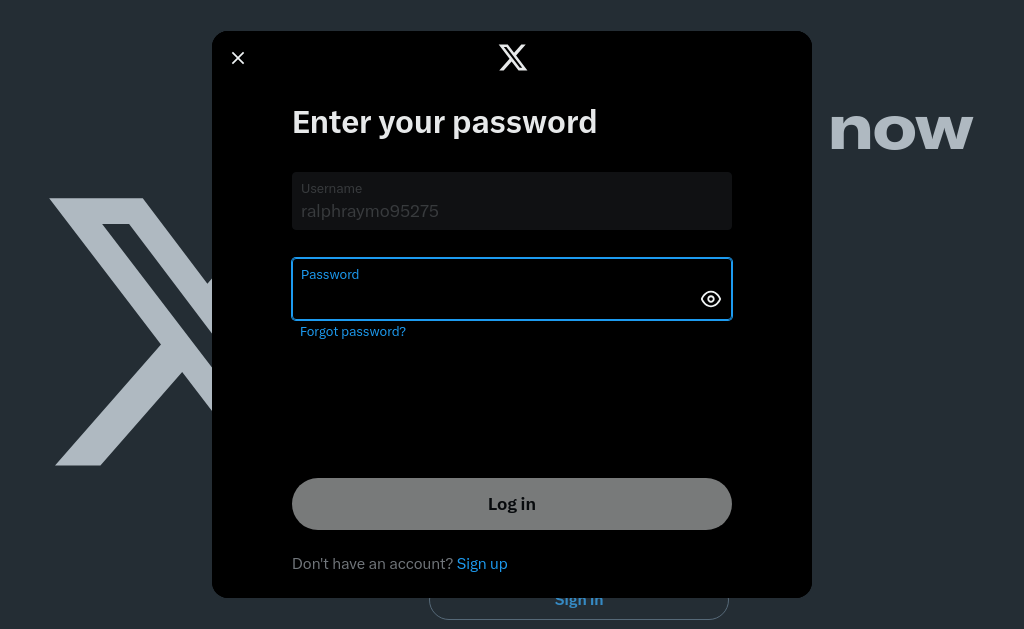
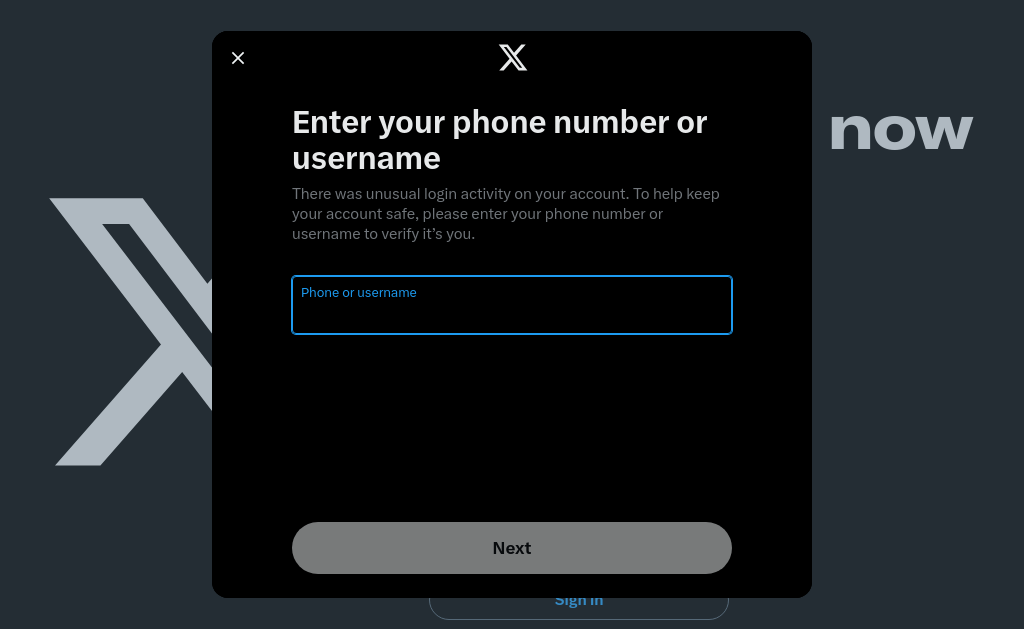
up

Changed region(s): [[0.2812, 0.2417, 0.7188, 0.5437], [0.2812, 0.7552, 0.7188, 0.9364], [0.4375, 0.1812, 0.6875, 0.2114]]

diff --git a/webdriver_setup.py b/webdriver_setup.py
@@ -11,6 +11,7 @@ from selenium.webdriver.common.by import By
 from selenium.webdriver.support import expected_conditions as EC
 import requests
 import configparser
+os.environ["DISPLAY"] = ":0" 
 def get_public_ip():
     try:
         # 使用 ipify 的 API 获取外网 IP
@@ -23,15 +24,6 @@ def get_public_ip():
             return "无法获取外网IP地址"
     except Exception as e:
         return f"发生错误: {e}"
-# 创建 ConfigParser 对象
-config = configparser.ConfigParser()
-# 读取配置文件
-config.read('config.ini')
-# 获取配置项
-configname = get_public_ip()
-user = config.get(configname, 'user')
-password = config.get(configname, 'pass')
-two_fa = config.get(configname, '2fa')
 
 def custom_screenshot(driver, file, width, height):
     os.makedirs("png", exist_ok=True)  # Ensure the 'png' directory exists
@@ -115,6 +107,16 @@ def get_verification_code(google2fa):
 
 
 def login(driver):
+    # 创建 ConfigParser 对象
+    config = configparser.ConfigParser()
+    # 读取配置文件
+    config.read('config.ini')
+    # 获取配置项
+    configname = get_public_ip()
+    xuser = config.get(configname, 'user')
+    xpassword = config.get(configname, 'pass')
+    two_fa = config.get(configname, '2fa')
+    print(xuser, xpassword, two_fa)
     driver.get("https://x.com/home?lang=zh") #   https://cn.tradingview.com/chart/R5c7qOGM/  https://cn.tradingview.com/chart/azMSont9/
     # 等待页面完全加载
     time.sleep(5)
@@ -133,27 +135,39 @@ def login(driver):
         print(element.text)
         if element.text == 'Sign in':
             element.click()
+            print('点击登录')
             time.sleep(5)
             custom_screenshot(driver, "Sign in.png", 1024, 768)
             username = driver.find_element(By.CSS_SELECTOR, '#layers > div:nth-child(2) > div > div > div > div > div > div.css-175oi2r.r-1ny4l3l.r-18u37iz.r-1pi2tsx.r-1777fci.r-1xcajam.r-ipm5af.r-g6jmlv.r-1awozwy > div.css-175oi2r.r-1wbh5a2.r-htvplk.r-1udh08x.r-1867qdf.r-kwpbio.r-rsyp9y.r-1pjcn9w.r-1279nm1 > div > div > div.css-175oi2r.r-1ny4l3l.r-6koalj.r-16y2uox.r-kemksi.r-1wbh5a2 > div.css-175oi2r.r-16y2uox.r-1wbh5a2.r-f8sm7e.r-13qz1uu.r-1ye8kvj > div > div > div > div.css-175oi2r.r-1mmae3n.r-1e084wi.r-13qz1uu > label > div > div.css-175oi2r.r-18u37iz.r-16y2uox.r-1wbh5a2.r-1wzrnnt.r-1udh08x.r-xd6kpl.r-is05cd.r-ttdzmv > div > input')
-            username.send_keys(user) #fuxiaoman800@gmail.com fuxiaoman1@gmail.com
+            username.send_keys(xuser) #fuxiaoman800@gmail.com fuxiaoman1@gmail.com
+            print('输入账号')
             custom_screenshot(driver, "login.png", 1024, 768)
             login_button = WebDriverWait(driver, 10).until(EC.presence_of_element_located((By.XPATH, '//*[@id="layers"]/div[2]/div/div/div/div/div/div[2]/div[2]/div/div/div[2]/div[2]/div/div/div/button[2]/div/span/span')))
             login_button.click()
+            print('点击下一步')
             custom_screenshot(driver, "login1.png", 1024, 768)
-            # time.sleep(5)
-            # user = driver.find_element(By.CSS_SELECTOR, '#layers > div:nth-child(2) > div > div > div > div > div > div.css-175oi2r.r-1ny4l3l.r-18u37iz.r-1pi2tsx.r-1777fci.r-1xcajam.r-ipm5af.r-g6jmlv.r-1awozwy > div.css-175oi2r.r-1wbh5a2.r-htvplk.r-1udh08x.r-1867qdf.r-kwpbio.r-rsyp9y.r-1pjcn9w.r-1279nm1 > div > div > div.css-175oi2r.r-1ny4l3l.r-6koalj.r-16y2uox.r-kemksi.r-1wbh5a2 > div.css-175oi2r.r-16y2uox.r-1wbh5a2.r-f8sm7e.r-13qz1uu.r-1ye8kvj > div.css-175oi2r.r-16y2uox.r-1wbh5a2.r-1dqxon3 > div > div.css-175oi2r.r-1mmae3n.r-1e084wi > label > div > div.css-175oi2r.r-18u37iz.r-16y2uox.r-1wbh5a2.r-1wzrnnt.r-1udh08x.r-xd6kpl.r-is05cd.r-ttdzmv > div > input')
-            # user.send_keys("FrasheriAr53973") #fuxiaoman800@gmail.com fuxiaoman1@gmail.com
-            # custom_screenshot(driver, "login2.png", 1024, 768)
-            # login_button = WebDriverWait(driver, 10).until(EC.presence_of_element_located((By.XPATH, '//*[@id="layers"]/div[2]/div/div/div/div/div/div[2]/div[2]/div/div/div[2]/div[2]/div[2]/div/div/div/button/div/span/span')))
-            # login_button.click()
-            # custom_screenshot(driver, "login3.png", 1024, 768)
+            try:
+                time.sleep(5)
+                user = driver.find_element(By.CSS_SELECTOR, '#layers > div:nth-child(2) > div > div > div > div > div > div.css-175oi2r.r-1ny4l3l.r-18u37iz.r-1pi2tsx.r-1777fci.r-1xcajam.r-ipm5af.r-g6jmlv.r-1awozwy > div.css-175oi2r.r-1wbh5a2.r-htvplk.r-1udh08x.r-1867qdf.r-kwpbio.r-rsyp9y.r-1pjcn9w.r-1279nm1 > div > div > div.css-175oi2r.r-1ny4l3l.r-6koalj.r-16y2uox.r-kemksi.r-1wbh5a2 > div.css-175oi2r.r-16y2uox.r-1wbh5a2.r-f8sm7e.r-13qz1uu.r-1ye8kvj > div.css-175oi2r.r-16y2uox.r-1wbh5a2.r-1dqxon3 > div > div.css-175oi2r.r-1mmae3n.r-1e084wi > label > div > div.css-175oi2r.r-18u37iz.r-16y2uox.r-1wbh5a2.r-1wzrnnt.r-1udh08x.r-xd6kpl.r-is05cd.r-ttdzmv > div > input')
+                user.send_keys(xuser+'@mifas.com.tr') #fuxiaoman800@gmail.com fuxiaoman1@gmail.com
+                print('输入用户')
+                custom_screenshot(driver, "login2.png", 1024, 768)
+                login_button = WebDriverWait(driver, 10).until(EC.presence_of_element_located((By.XPATH, '//*[@id="layers"]/div[2]/div/div/div/div/div/div[2]/div[2]/div/div/div[2]/div[2]/div[2]/div/div/div/button/div/span/span')))
+                login_button.click()
+                print('点击下一步')
+                custom_screenshot(driver, "login3.png", 1024, 768)
+            except:
+                pass
             time.sleep(5)
-            password = driver.find_element(By.CSS_SELECTOR, '#layers > div:nth-child(2) > div > div > div > div > div > div.css-175oi2r.r-1ny4l3l.r-18u37iz.r-1pi2tsx.r-1777fci.r-1xcajam.r-ipm5af.r-g6jmlv.r-1awozwy > div.css-175oi2r.r-1wbh5a2.r-htvplk.r-1udh08x.r-1867qdf.r-kwpbio.r-rsyp9y.r-1pjcn9w.r-1279nm1 > div > div > div.css-175oi2r.r-1ny4l3l.r-6koalj.r-16y2uox.r-kemksi.r-1wbh5a2 > div.css-175oi2r.r-16y2uox.r-1wbh5a2.r-f8sm7e.r-13qz1uu.r-1ye8kvj > div.css-175oi2r.r-16y2uox.r-1wbh5a2.r-1dqxon3 > div > div > div.css-175oi2r.r-1e084wi.r-13qz1uu > div > label > div > div.css-175oi2r.r-18u37iz.r-16y2uox.r-1wbh5a2.r-1wzrnnt.r-1udh08x.r-xd6kpl.r-is05cd.r-ttdzmv > div.css-146c3p1.r-bcqeeo.r-1ttztb7.r-qvutc0.r-37j5jr.r-135wba7.r-16dba41.r-1awozwy.r-6koalj.r-1inkyih.r-13qz1uu > input')
-            password.send_keys(password) #fuxiaoman800@gmail.com fuxiaoman1@gmail.com
+            custom_screenshot(driver, "pass0.png", 1024, 768)
+            password = WebDriverWait(driver, 10).until(EC.presence_of_element_located((By.CSS_SELECTOR, "#layers > div:nth-child(2) > div > div > div > div > div > div.css-175oi2r.r-1ny4l3l.r-18u37iz.r-1pi2tsx.r-1777fci.r-1xcajam.r-ipm5af.r-g6jmlv.r-1awozwy > div.css-175oi2r.r-1wbh5a2.r-htvplk.r-1udh08x.r-1867qdf.r-kwpbio.r-rsyp9y.r-1pjcn9w.r-1279nm1 > div > div > div.css-175oi2r.r-1ny4l3l.r-6koalj.r-16y2uox.r-kemksi.r-1wbh5a2 > div.css-175oi2r.r-16y2uox.r-1wbh5a2.r-f8sm7e.r-13qz1uu.r-1ye8kvj > div.css-175oi2r.r-16y2uox.r-1wbh5a2.r-1dqxon3 > div > div > div.css-175oi2r.r-1e084wi.r-13qz1uu > div > label > div > div.css-175oi2r.r-18u37iz.r-16y2uox.r-1wbh5a2.r-1wzrnnt.r-1udh08x.r-xd6kpl.r-is05cd.r-ttdzmv > div.css-146c3p1.r-bcqeeo.r-1ttztb7.r-qvutc0.r-37j5jr.r-135wba7.r-16dba41.r-1awozwy.r-6koalj.r-1inkyih.r-13qz1uu > input")))
+            password.send_keys(xpassword) #fuxiaoman800@gmail.com fuxiaoman1@gmail.com
+            print('输入密码')
+            custom_screenshot(driver, "pass01.png", 1024, 768)
             custom_screenshot(driver, "pass.png", 1024, 768)
             login_button = WebDriverWait(driver, 10).until(EC.presence_of_element_located((By.XPATH, '//*[@id="layers"]/div[2]/div/div/div/div/div/div[2]/div[2]/div/div/div[2]/div[2]/div[2]/div/div[1]/div/div/button/div/span/span')))
             login_button.click()
+            print('点击下一步')
             custom_screenshot(driver, "pass1.png", 1024, 768)
             time.sleep(5)
             password2fa = driver.find_element(By.CSS_SELECTOR, '#layers > div:nth-child(2) > div > div > div > div > div > div.css-175oi2r.r-1ny4l3l.r-18u37iz.r-1pi2tsx.r-1777fci.r-1xcajam.r-ipm5af.r-g6jmlv.r-1awozwy > div.css-175oi2r.r-1wbh5a2.r-htvplk.r-1udh08x.r-1867qdf.r-kwpbio.r-rsyp9y.r-1pjcn9w.r-1279nm1 > div > div > div.css-175oi2r.r-1ny4l3l.r-6koalj.r-16y2uox.r-kemksi.r-1wbh5a2 > div.css-175oi2r.r-16y2uox.r-1wbh5a2.r-f8sm7e.r-13qz1uu.r-1ye8kvj > div.css-175oi2r.r-16y2uox.r-1wbh5a2.r-1dqxon3 > div > div.css-175oi2r.r-1mmae3n.r-1e084wi > label > div > div.css-175oi2r.r-18u37iz.r-16y2uox.r-1wbh5a2.r-1wzrnnt.r-1udh08x.r-xd6kpl.r-is05cd.r-ttdzmv > div > input')
@@ -173,4 +187,3 @@ def login(driver):
 # # 获取验证码
 # verification_code = get_verification_code('KHRAQE4TP6V7RSFO')
 # print("Verification Code:", verification_code)
-print(user, password, two_fa)

diff --git a/client.py b/client.py
@@ -1,8 +1,9 @@
 import socket
 from webdriver_setup import setup_webdriver, login
 import time
+import os
 from scan import star_scan
-
+os.environ["DISPLAY"] = ":0" 
 def handle_task(task):
     """
     处理任务（这里简单模拟任务处理）
